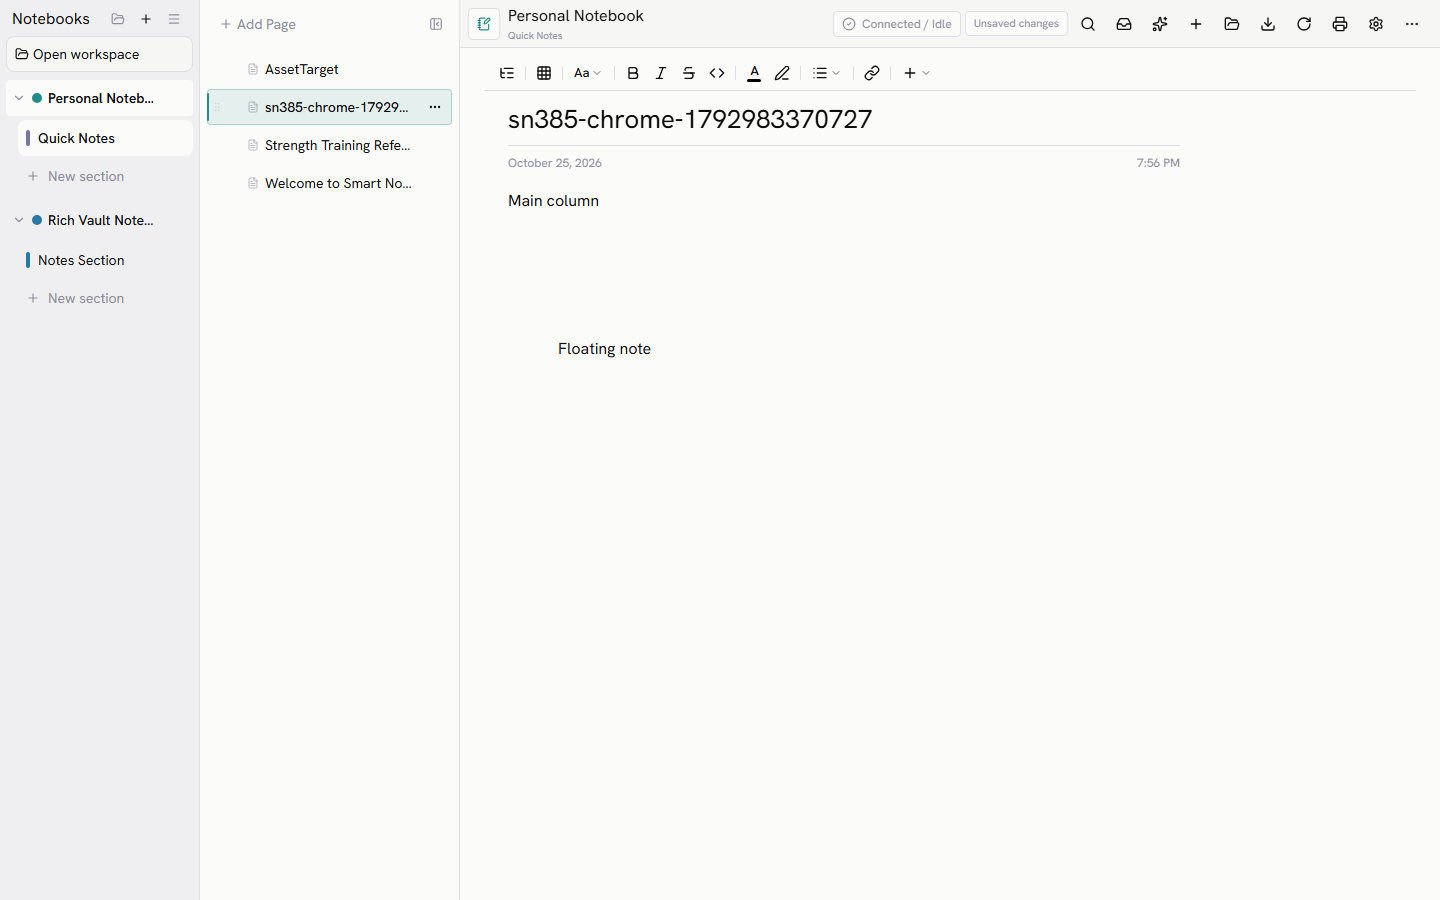
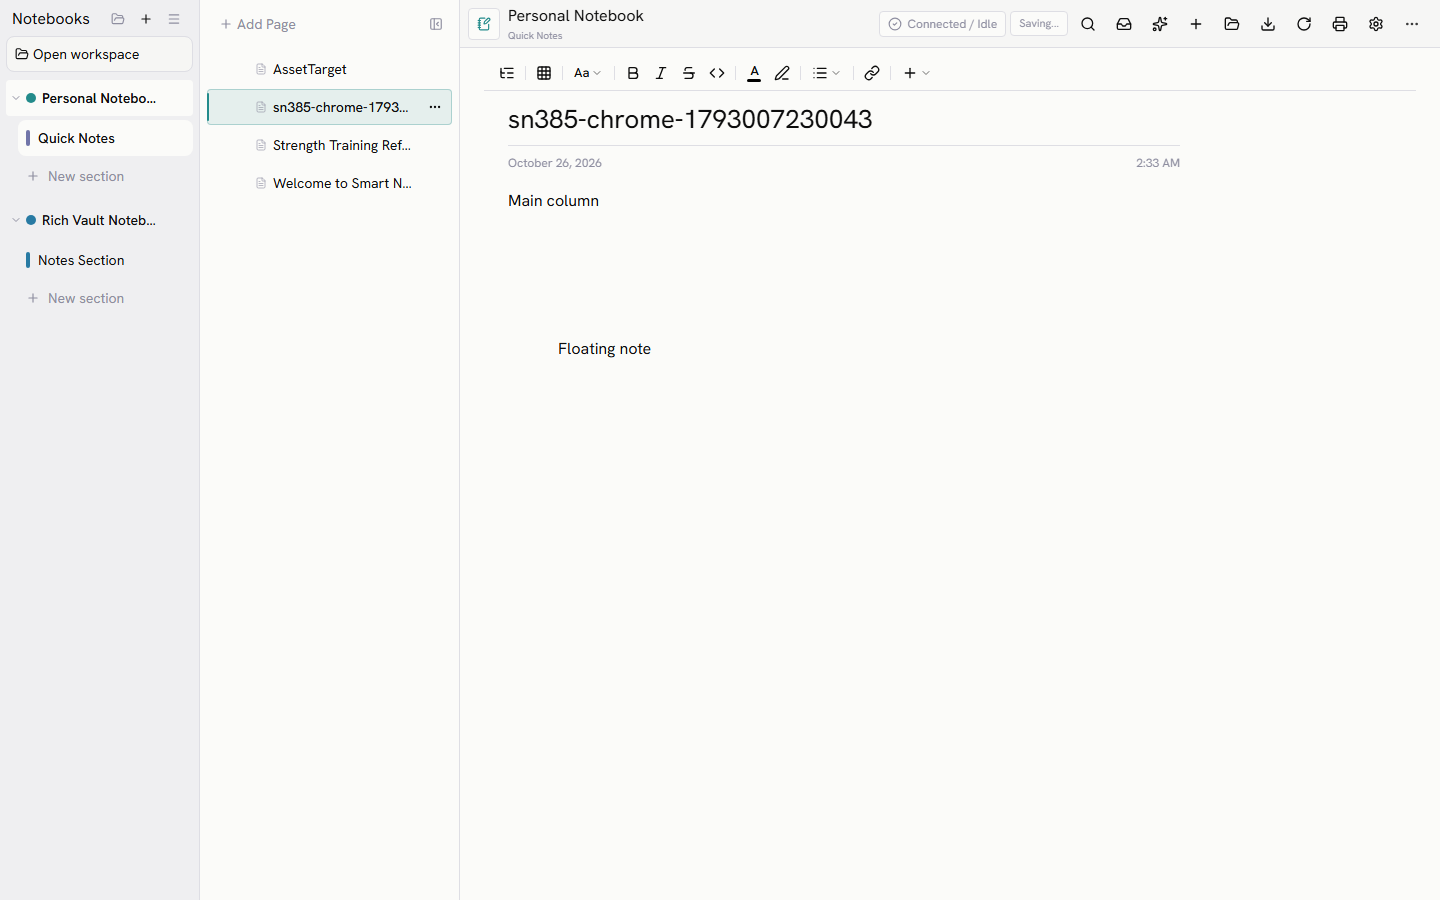
SN-314: fit floating box around image margin; browser regression and evidence
Width fit now includes the image resize container's right margin, and capped
images keep their margin box inside the line, so ProseMirror's trailing break
no longer wraps onto an empty line under a full-width image. Extend the
SN-385 floating box e2e with content-fit height, width reflow, and image
growth checks plus hidden/focused border screenshots.

diff --git a/e2e/sn-385-floating-box-chrome.spec.ts b/e2e/sn-385-floating-box-chrome.spec.ts
@@ -1,26 +1,27 @@
-import { expect, test } from "@playwright/test";
+import { expect, test, type APIRequestContext } from "@playwright/test";
 import fs from "node:fs/promises";
+import { PNG } from "pngjs";
 import path from "node:path";
 
 test.use({ serviceWorkers: "block" });
 
-test("SN-385 floating box chrome appears only while editing its content", async ({ page, request }, testInfo) => {
-  test.setTimeout(120_000);
-  test.skip(testInfo.project.name !== "desktop", "desktop screenshot evidence");
-  const title = `sn385-chrome-${Date.now()}`;
+async function seedPage(request: APIRequestContext, title: string, content: string) {
   const created = await request.post("/api/page", {
     data: { notebookPath: "Personal Notebook", sectionPath: "Personal Notebook/Quick Notes", title },
   });
   expect(created.ok()).toBeTruthy();
   const { page: saved } = await created.json() as { page: { path: string } };
-  const seeded = await request.put("/api/page", {
-    data: {
-      path: saved.path,
-      title,
-      content: '<p>Main column</p><div data-type="floating-text-box" data-x="40" data-y="140" data-width="360" data-height="80"><div data-floating-box-content><p>Floating note</p></div></div>',
-    },
-  });
+  const seeded = await request.put("/api/page", { data: { path: saved.path, title, content } });
   expect(seeded.ok()).toBeTruthy();
+  return saved.path;
+}
+
+test("SN-385 floating box chrome appears only while editing its content", async ({ page, request }, testInfo) => {
+  test.setTimeout(120_000);
+  test.skip(testInfo.project.name !== "desktop", "desktop screenshot evidence");
+  const title = `sn385-chrome-${Date.now()}`;
+  const pagePath = await seedPage(request, title,
+    '<p>Main column</p><div data-type="floating-text-box" data-x="40" data-y="140" data-width="360" data-height="80"><div data-floating-box-content><p>Floating note</p></div></div>');
 
   try {
     await page.setViewportSize({ width: 1440, height: 900 });
@@ -28,30 +29,137 @@ test("SN-385 floating box chrome appears only while editing its content", async 
     await page.getByTestId("tree-sidebar-rail").getByText(title, { exact: true }).click();
     const box = page.getByTestId("floating-text-box");
     const controls = box.locator(".floating-text-box__controls");
-    const resize = box.getByTestId("floating-text-box-resize");
     const width = box.getByTestId("floating-text-box-resize-width");
     await expect(box).toBeVisible();
+    // SN-314: width is the only resize; there is no corner (height) handle.
+    await expect(box.getByTestId("floating-text-box-resize")).toHaveCount(0);
     await expect(box).toHaveAttribute("data-editing", "false");
     await expect(controls).toBeHidden();
-    await expect(resize).toBeHidden();
     await expect(width).toBeHidden();
     await expect(box).toHaveCSS("border-top-color", "rgba(0, 0, 0, 0)");
     await box.hover();
     await expect(controls).toBeHidden();
+    await expect(box).toHaveCSS("border-top-color", "rgba(0, 0, 0, 0)");
 
     const evidenceDir = path.resolve(__dirname, "../evidence/SN-385");
     await fs.mkdir(evidenceDir, { recursive: true });
     await page.screenshot({ path: path.join(evidenceDir, "idle.png") });
     await box.getByText("Floating note").click();
     await expect(box).toHaveAttribute("data-editing", "true");
+    await expect(box).not.toHaveCSS("border-top-color", "rgba(0, 0, 0, 0)");
     await expect(controls).toBeVisible();
-    await expect(resize).toBeVisible();
     await expect(width).toBeVisible();
     await page.screenshot({ path: path.join(evidenceDir, "editing.png") });
     await page.getByText("Main column").click();
     await expect(box).toHaveAttribute("data-editing", "false");
     await expect(controls).toBeHidden();
+    await expect(box).toHaveCSS("border-top-color", "rgba(0, 0, 0, 0)");
   } finally {
-    await request.delete(`/api/page?path=${encodeURIComponent(saved.path)}`).catch(() => undefined);
+    await request.delete(`/api/page?path=${encodeURIComponent(pagePath)}`).catch(() => undefined);
+  }
+});
+
+test("SN-314 floating box fits its content; width drag reflows text; a wider image grows the box", async ({ page, request }, testInfo) => {
+  test.setTimeout(120_000);
+  test.skip(testInfo.project.name !== "desktop", "desktop screenshot evidence");
+  const title = `sn314-fit-${Date.now()}`;
+  const text = "OneNote style floating text wraps to whatever width the owner drags the box to, and the box height follows.";
+  const png = new PNG({ width: 480, height: 240 });
+  png.data.fill(160);
+  const pngBase64 = PNG.sync.write(png).toString("base64");
+  // data-height="300" is a stale pre-SN-314 value; it must not leave empty chrome.
+  const pagePath = await seedPage(request, title,
+    `<p>Main column</p><div data-type="floating-text-box" data-x="40" data-y="140" data-width="360" data-height="300"><div data-floating-box-content><p>${text}</p></div></div>` +
+    `<div data-type="floating-text-box" data-x="40" data-y="520" data-width="200"><div data-floating-box-content><p>Image box</p></div></div>`);
+
+  const measure = (locator: ReturnType<typeof page.getByTestId>) => locator.evaluate((el) => {
+    const content = el.querySelector<HTMLElement>(".floating-text-box__content")!;
+    const style = getComputedStyle(el);
+    const chrome = parseFloat(style.paddingTop) + parseFloat(style.paddingBottom) +
+      parseFloat(style.borderTopWidth) + parseFloat(style.borderBottomWidth);
+    return { height: el.offsetHeight, width: el.offsetWidth, fit: Math.ceil(content.scrollHeight + chrome), minHeight: style.minHeight };
+  });
+
+  try {
+    await page.setViewportSize({ width: 1440, height: 1000 });
+    await page.goto("/");
+    await page.getByTestId("tree-sidebar-rail").getByText(title, { exact: true }).click();
+    const [textBox, imageBox] = [page.getByTestId("floating-text-box").first(), page.getByTestId("floating-text-box").nth(1)];
+    await expect(textBox).toBeVisible();
+
+    const initial = await measure(textBox);
+    expect(initial.minHeight).toMatch(/^(0px|auto)$/);
+    expect(Math.abs(initial.height - initial.fit)).toBeLessThanOrEqual(1);
+    expect(initial.height).toBeLessThan(300);
+
+    const evidenceDir = path.resolve(__dirname, "../evidence/SN-314");
+    await fs.mkdir(evidenceDir, { recursive: true });
+    await page.screenshot({ path: path.join(evidenceDir, "hidden-border.png") });
+    await textBox.getByText(text).click();
+    await expect(textBox).toHaveAttribute("data-editing", "true");
+    await page.screenshot({ path: path.join(evidenceDir, "focused-border.png") });
+
+    // Drag the width handle 160px left: text rewraps onto more lines and the box grows taller to fit.
+    const handle = textBox.getByTestId("floating-text-box-resize-width");
+    const grip = (await handle.boundingBox())!;
+    await page.mouse.move(grip.x + grip.width / 2, grip.y + grip.height / 2);
+    await page.mouse.down();
+    await page.mouse.move(grip.x + grip.width / 2 - 160, grip.y + grip.height / 2, { steps: 8 });
+    await page.mouse.up();
+    await expect(textBox).toHaveAttribute("data-width", "200");
+    const narrow = await measure(textBox);
+    expect(narrow.width).toBe(200);
+    expect(narrow.height).toBeGreaterThan(initial.height);
+    expect(Math.abs(narrow.height - narrow.fit)).toBeLessThanOrEqual(1);
+    await page.screenshot({ path: path.join(evidenceDir, "width-reflow.png") });
+
+    // Paste an image into the second box, then drag it wider than the box: the box
+    // widens and grows taller to contain it, and its border stays up while the image is selected.
+    await imageBox.getByText("Image box").click();
+    await page.keyboard.press("End");
+    const before = await measure(imageBox);
+    const uploaded = page.waitForResponse((response) =>
+      response.url().includes("/api/assets") && response.request().method() === "POST" && response.status() === 201);
+    await page.locator(".ProseMirror.editor-content").evaluate((element, base64) => {
+      const bytes = Uint8Array.from(atob(base64), (character) => character.charCodeAt(0));
+      const transfer = new DataTransfer();
+      transfer.items.add(new File([bytes], "sn314-fit.png", { type: "image/png" }));
+      element.dispatchEvent(new ClipboardEvent("paste", { bubbles: true, cancelable: true, clipboardData: transfer }));
+    }, pngBase64);
+    await uploaded;
+    const picture = imageBox.locator("[data-resize-wrapper] > img");
+    await expect.poll(async () => picture.evaluate((img: HTMLImageElement) => img.naturalWidth)).toBe(480);
+    // A pasted image is capped to the box; it must not ratchet the box wider.
+    await page.waitForTimeout(500);
+    await expect(imageBox).toHaveAttribute("data-width", "200");
+    const pasted = await measure(imageBox);
+    expect(pasted.height).toBeGreaterThan(before.height);
+    expect(Math.abs(pasted.height - pasted.fit)).toBeLessThanOrEqual(1);
+    await picture.click();
+    await expect(imageBox).toHaveAttribute("data-editing", "true");
+    await expect(imageBox).not.toHaveCSS("border-top-color", "rgba(0, 0, 0, 0)");
+    const imageHandle = imageBox.locator('[data-resize-handle="right"]');
+    const knob = (await imageHandle.boundingBox())!;
+    await page.mouse.move(knob.x + knob.width / 2, knob.y + knob.height / 2);
+    await page.mouse.down();
+    await page.mouse.move(knob.x + knob.width / 2 + 240, knob.y + knob.height / 2, { steps: 10 });
+    await page.mouse.up();
+    await expect.poll(async () => (await measure(imageBox)).width).toBeGreaterThan(pasted.width + 150);
+    const grown = await measure(imageBox);
+    const imageRight = await picture.evaluate((img) => img.getBoundingClientRect().right);
+    const boxRight = await imageBox.evaluate((el) => el.getBoundingClientRect().right);
+    expect(imageRight).toBeLessThanOrEqual(boxRight);
+    expect(grown.height).toBeGreaterThan(pasted.height);
+    expect(Math.abs(grown.height - grown.fit)).toBeLessThanOrEqual(1);
+    // No empty line under the image: ProseMirror's trailing break stays on the image's line.
+    const trailing = await imageBox.evaluate((el) => {
+      const image = el.querySelector("[data-resize-wrapper] > img")!.getBoundingClientRect();
+      const tail = el.querySelector(".floating-text-box__content br.ProseMirror-trailingBreak")?.getBoundingClientRect();
+      return { imageBottom: image.bottom, tailTop: tail?.top ?? -Infinity };
+    });
+    expect(trailing.tailTop).toBeLessThan(trailing.imageBottom);
+    await page.screenshot({ path: path.join(evidenceDir, "image-growth.png") });
+  } finally {
+    await request.delete(`/api/page?path=${encodeURIComponent(pagePath)}`).catch(() => undefined);
   }
 });

diff --git a/tests/floating-text-box.test.ts b/tests/floating-text-box.test.ts
@@ -295,6 +295,35 @@ describe("floating text boxes", () => {
     }
   });
 
+  test("SN-314: image growth includes the resize container's right margin so no empty line wraps under the image", () => {
+    const callbacks: Array<() => void> = [];
+    const original = (globalThis as { ResizeObserver?: unknown }).ResizeObserver;
+    (globalThis as { ResizeObserver?: unknown }).ResizeObserver = class {
+      constructor(callback: () => void) { callbacks.push(callback); }
+      observe() {}
+      disconnect() {}
+    };
+    try {
+      const instance = editor('<div data-type="floating-text-box" data-x="20" data-y="30" data-width="360"><div data-floating-box-content><p><img src="/vault/notes/a.png" width="300"></p></div></div>');
+      const content = instance.view.dom.querySelector<HTMLElement>(".floating-text-box__content")!;
+      const image = content.querySelector<HTMLImageElement>("img")!;
+      const container = image.closest<HTMLElement>("[data-resize-container]")!;
+      expect(container).not.toBeNull();
+      const rect = (left: number, width: number) => ({ left, right: left + width, width, top: 0, bottom: 0, height: 0, x: left, y: 0, toJSON() {} }) as DOMRect;
+      Object.defineProperty(content, "clientWidth", { configurable: true, value: 340 });
+      content.getBoundingClientRect = () => rect(10, 340);
+      image.getBoundingClientRect = () => rect(10, 400);
+      container.getBoundingClientRect = () => rect(10, 400);
+      container.style.marginRight = "6px";
+      callbacks.forEach((callback) => callback());
+      // 400px image + 6px margin needs 406px of content: 66px past the 340px column.
+      expect(instance.getHTML()).toContain('data-width="426"');
+      instance.destroy();
+    } finally {
+      (globalThis as { ResizeObserver?: unknown }).ResizeObserver = original;
+    }
+  });
+
   test("SN-314: border/chrome shows for any selection inside the box (image node, box node), and there is no corner resize", () => {
     const instance = editor('<p>Main</p><div data-type="floating-text-box" data-x="20" data-y="30" data-width="360"><div data-floating-box-content><p>Box <img src="/vault/notes/a.png"></p></div></div>');
     document.body.append(instance.view.dom);

diff --git a/src/lib/floating-text-box-extension.ts b/src/lib/floating-text-box-extension.ts
@@ -119,6 +119,13 @@ export const FloatingTextBox = Node.create({
         let right = area.right;
         contentDOM.querySelectorAll("img").forEach((image) => {
           right = Math.max(right, image.getBoundingClientRect().right);
+          // Include the resize container's right margin: if only the bitmap fits,
+          // ProseMirror's trailing separator/break wraps onto an empty line under it.
+          const container = image.closest<HTMLElement>("[data-resize-container]");
+          if (container) {
+            const margin = parseFloat(getComputedStyle(container).marginRight) || 0;
+            right = Math.max(right, container.getBoundingClientRect().right + margin * scale);
+          }
         });
         const needed = contentDOM.clientWidth + (right - area.right) / scale;
         commit(fitFloatingBoxWidthToContent(geometry(), needed, contentDOM.clientWidth));

diff --git a/src/app/globals.css b/src/app/globals.css
@@ -580,6 +580,9 @@ body.page-print-active .editor-main-flow-outline { visibility: visible; }
 /* A user-sized image may exceed the box; the node view then widens the box to contain it. */
 .floating-text-box [data-resize-container][data-node="image"] [data-resize-wrapper] > img[style*="width"],
 .floating-text-box img.editor-image[style*="width"] { max-width: none; }
+/* SN-314: keep a capped image's margin box inside the line so ProseMirror's trailing
+   break does not wrap onto an empty line, and so the width fit never chases it. */
+.floating-text-box [data-resize-container][data-node="image"] { max-width: calc(100% - 0.35rem); }
 .floating-text-box__content > :first-child { margin-top: 0; }
 .floating-text-box__content > :last-child { margin-bottom: 0; }
 .editor-readonly .floating-text-box__controls,
